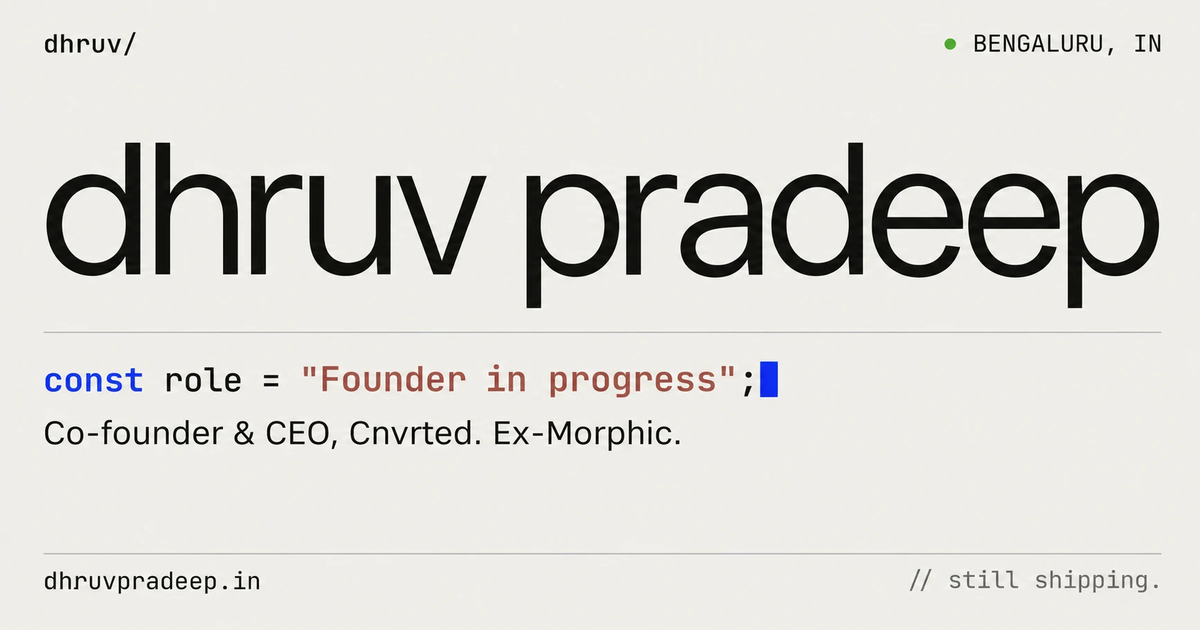
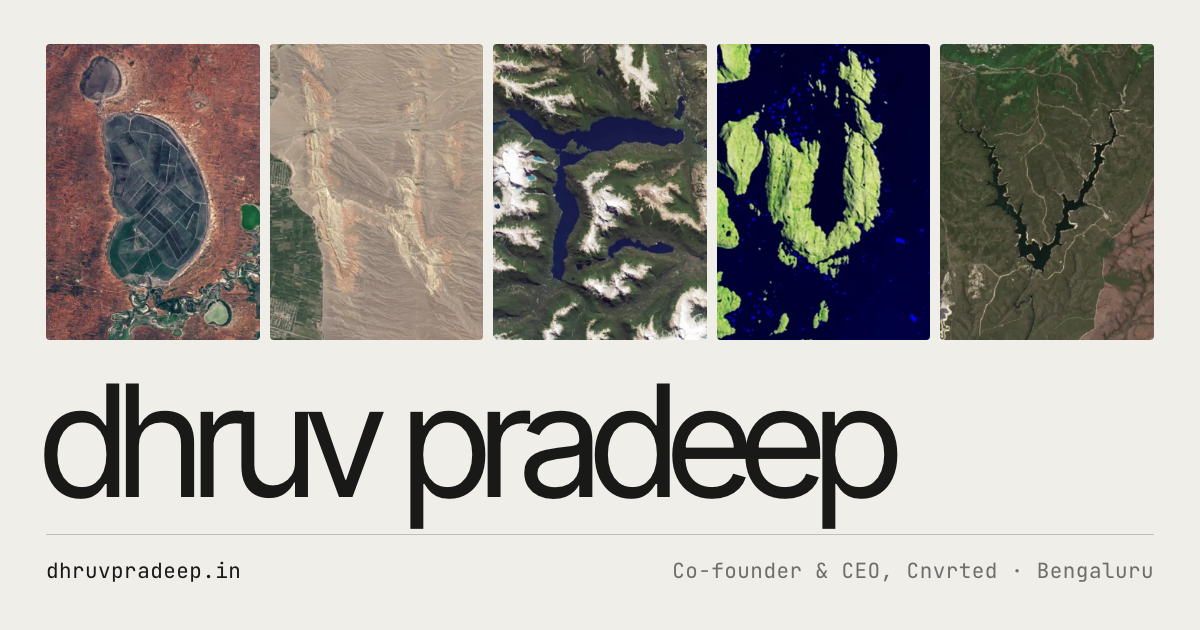
og: link preview with the satellite strips

diff --git a/index.html b/index.html
@@ -15,12 +15,12 @@
     <meta name="description" content="Dhruv Pradeep is a 19-year-old founder from Bangalore building Cnvrted, a smarter way to find real buyers in sales, and previously ran marketing ops at Morphic.">
     <meta property="og:title" content="Dhruv Pradeep — Founder In Progress | Building Cnvrted">
     <meta property="og:description" content="Dhruv Pradeep is a 19-year-old founder from Bangalore building Cnvrted, a smarter way to find real buyers in sales, and previously ran marketing ops at Morphic.">
-    <meta property="og:image" content="https://dhruvpradeep.in/og.png?v=2">
+    <meta property="og:image" content="https://dhruvpradeep.in/og.png?v=3">
     <meta property="og:url" content="https://dhruvpradeep.in/">
     <meta property="og:type" content="website">
     <meta name="twitter:card" content="summary_large_image">
     <meta name="twitter:creator" content="@dhruvprad">
-    <meta name="twitter:image" content="https://dhruvpradeep.in/og.png?v=2">
+    <meta name="twitter:image" content="https://dhruvpradeep.in/og.png?v=3">
     <link rel="preconnect" href="https://fonts.googleapis.com">
     <link rel="preconnect" href="https://fonts.gstatic.com" crossorigin>
     <link href="https://fonts.googleapis.com/css2?family=Inter+Tight:wght@300;400;500&family=JetBrains+Mono:wght@400;500&display=swap" rel="stylesheet">
@@ -173,7 +173,7 @@
       "@type": "Person",
       "name": "Dhruv Pradeep",
       "url": "https://dhruvpradeep.in",
-      "image": "https://dhruvpradeep.in/og.png?v=2",
+      "image": "https://dhruvpradeep.in/og.png?v=3",
       "jobTitle": "Co-founder & CEO, Cnvrted",
       "worksFor": {"@type": "Organization", "name": "Cnvrted", "url": "https://www.cnvrted.com"},
       "alumniOf": {"@type": "Organization", "name": "Morphic", "url": "https://morphic.com"},

diff --git a/about.html b/about.html
@@ -173,7 +173,7 @@
       "@type": "Person",
       "name": "Dhruv Pradeep",
       "url": "https://dhruvpradeep.in",
-      "image": "https://dhruvpradeep.in/og.png?v=2",
+      "image": "https://dhruvpradeep.in/og.png?v=3",
       "jobTitle": "Co-founder & CEO, Cnvrted",
       "worksFor": {"@type": "Organization", "name": "Cnvrted", "url": "https://www.cnvrted.com"},
       "alumniOf": {"@type": "Organization", "name": "Morphic", "url": "https://morphic.com"},
@@ -239,7 +239,7 @@
     "name": "Dhruv Pradeep",
     "alternateName": "Dhruv",
     "url": "https://dhruvpradeep.in",
-    "image": "https://dhruvpradeep.in/og.png?v=2",
+    "image": "https://dhruvpradeep.in/og.png?v=3",
     "jobTitle": "Co-founder & CEO, Cnvrted",
     "description": "19-year-old founder from Bangalore. Co-founder & CEO of Cnvrted, ex-Morphic (marketing operations), former professional cricketer, dropped out of Manipal (MAHE).",
     "birthPlace": {

diff --git a/icarus.html b/icarus.html
@@ -14,10 +14,10 @@
     <meta property="og:description" content="You can&rsquo;t fall unless you&rsquo;ve flown.">
     <meta property="og:url" content="https://dhruvpradeep.in/icarus">
     <meta property="og:type" content="website">
-    <meta property="og:image" content="https://dhruvpradeep.in/og.png">
+    <meta property="og:image" content="https://dhruvpradeep.in/og.png?v=3">
     <meta name="twitter:card" content="summary_large_image">
     <meta name="twitter:creator" content="@dhruvprad">
-    <meta name="twitter:image" content="https://dhruvpradeep.in/og.png">
+    <meta name="twitter:image" content="https://dhruvpradeep.in/og.png?v=3">
     <link rel="preconnect" href="https://fonts.googleapis.com">
     <link rel="preconnect" href="https://fonts.gstatic.com" crossorigin>
     <link href="https://fonts.googleapis.com/css2?family=Inter+Tight:wght@400;500&family=JetBrains+Mono:wght@400;500&display=swap" rel="stylesheet">

diff --git a/me.html b/me.html
@@ -9,7 +9,7 @@
     <meta property="og:title" content="Dhruv's Website">
     <meta property="og:description" content="Dhruv Pradeep, by hand.">
     <meta property="og:url" content="https://dhruvpradeep.in/me">
-    <meta property="og:image" content="https://dhruvpradeep.in/og.png">
+    <meta property="og:image" content="https://dhruvpradeep.in/og.png?v=3">
     <meta name="twitter:card" content="summary_large_image">
     <meta name="twitter:creator" content="@dhruvprad">
     <link rel="icon" href="/favicon.ico" sizes="any">
